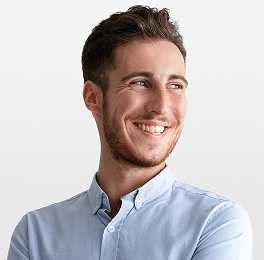
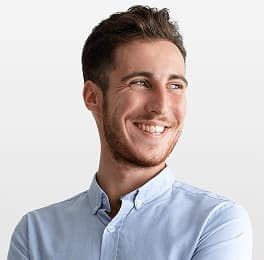
img + squoosh app, rename title, section2>h2 rename

diff --git a/index.html b/index.html
@@ -3,7 +3,7 @@
   <head>
     <meta charset="UTF-8" />
     <meta name="viewport" content="width=device-width, initial-scale=1.0" />
-    <title>Document</title>
+    <title>WebStudio</title>
   </head>
   <body>
     <header>
@@ -30,7 +30,7 @@
         <button type="button">Order Service</button>
       </section>
       <section>
-        <h2>Section2</h2>
+        <h2>About</h2>
         <ul>
           <li>
             <h3>Strategy</h3>
